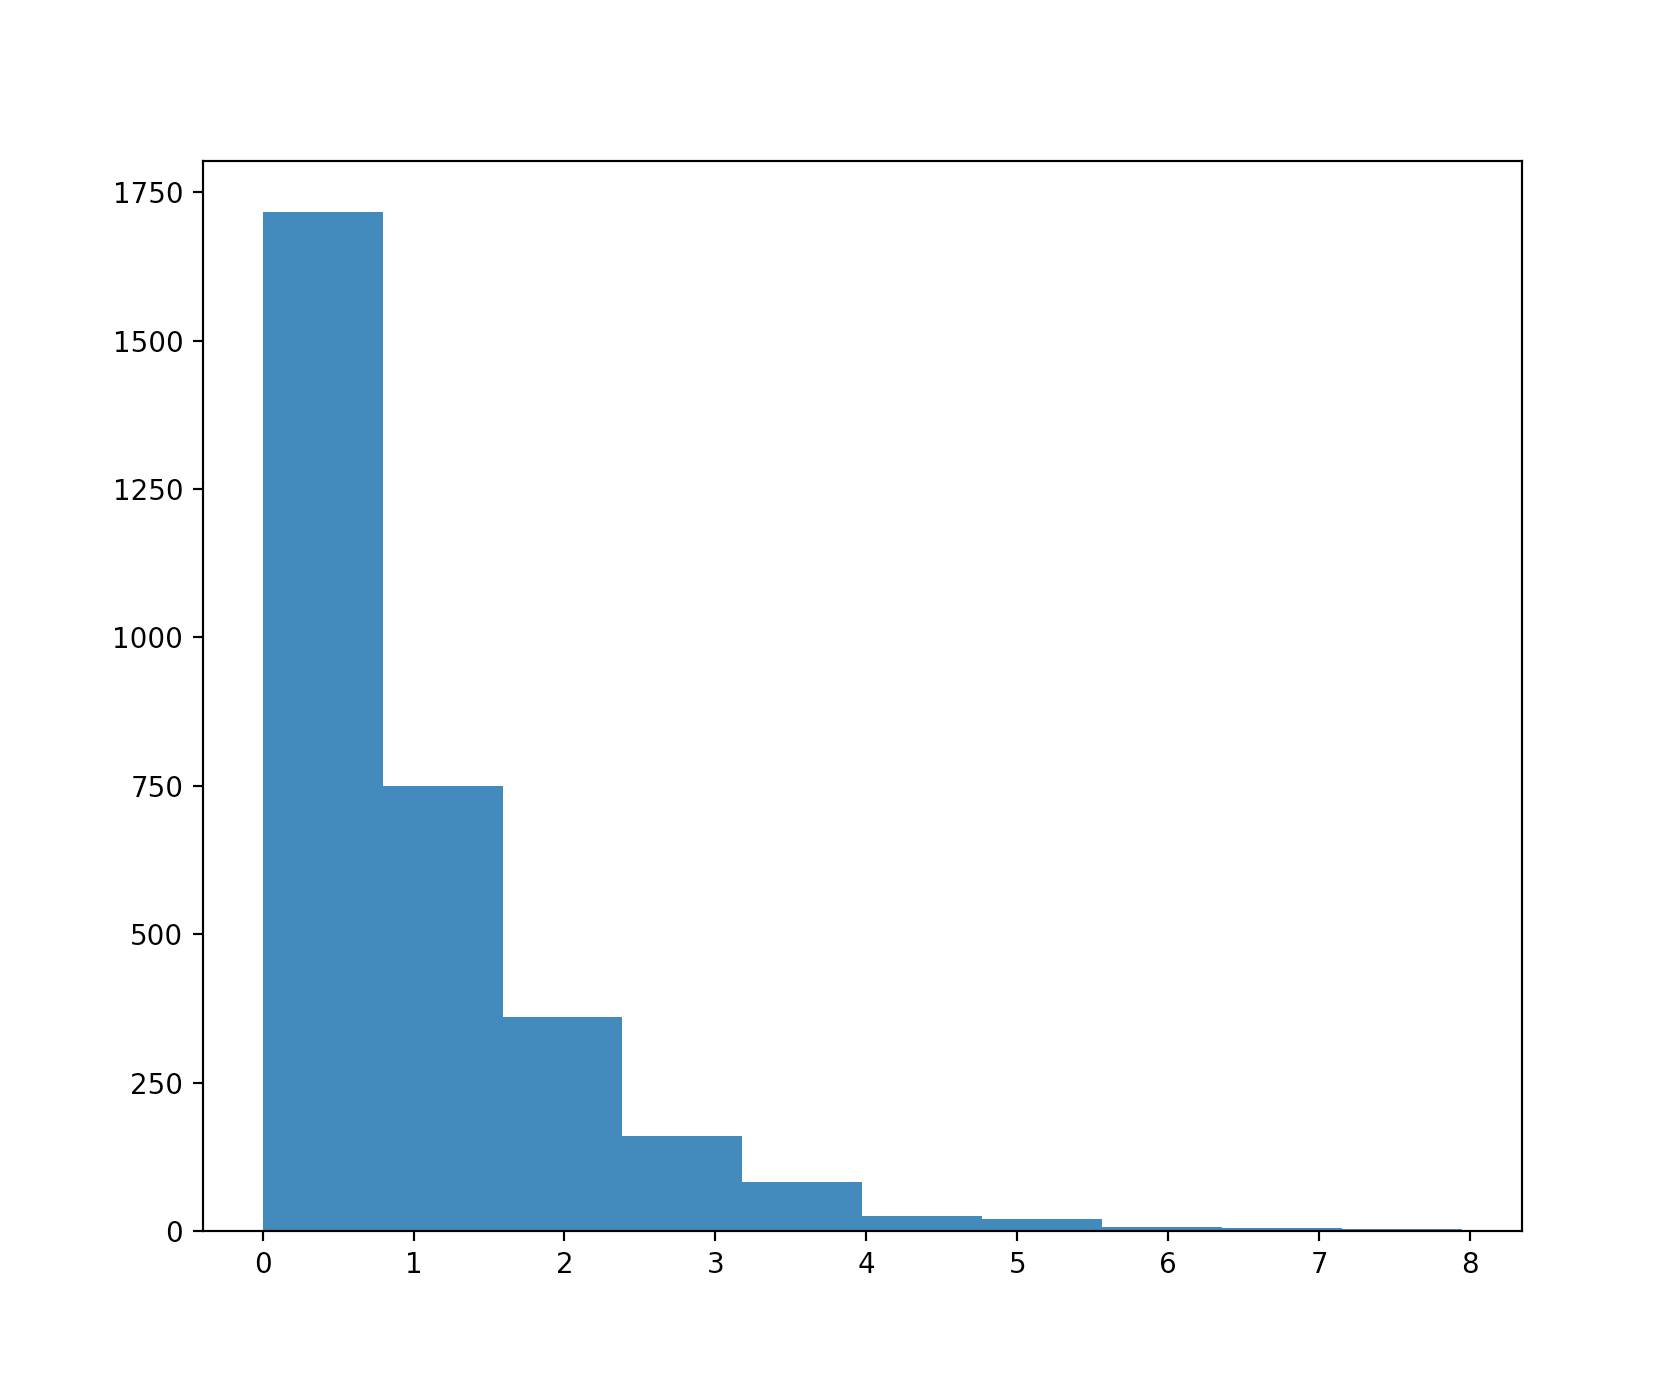
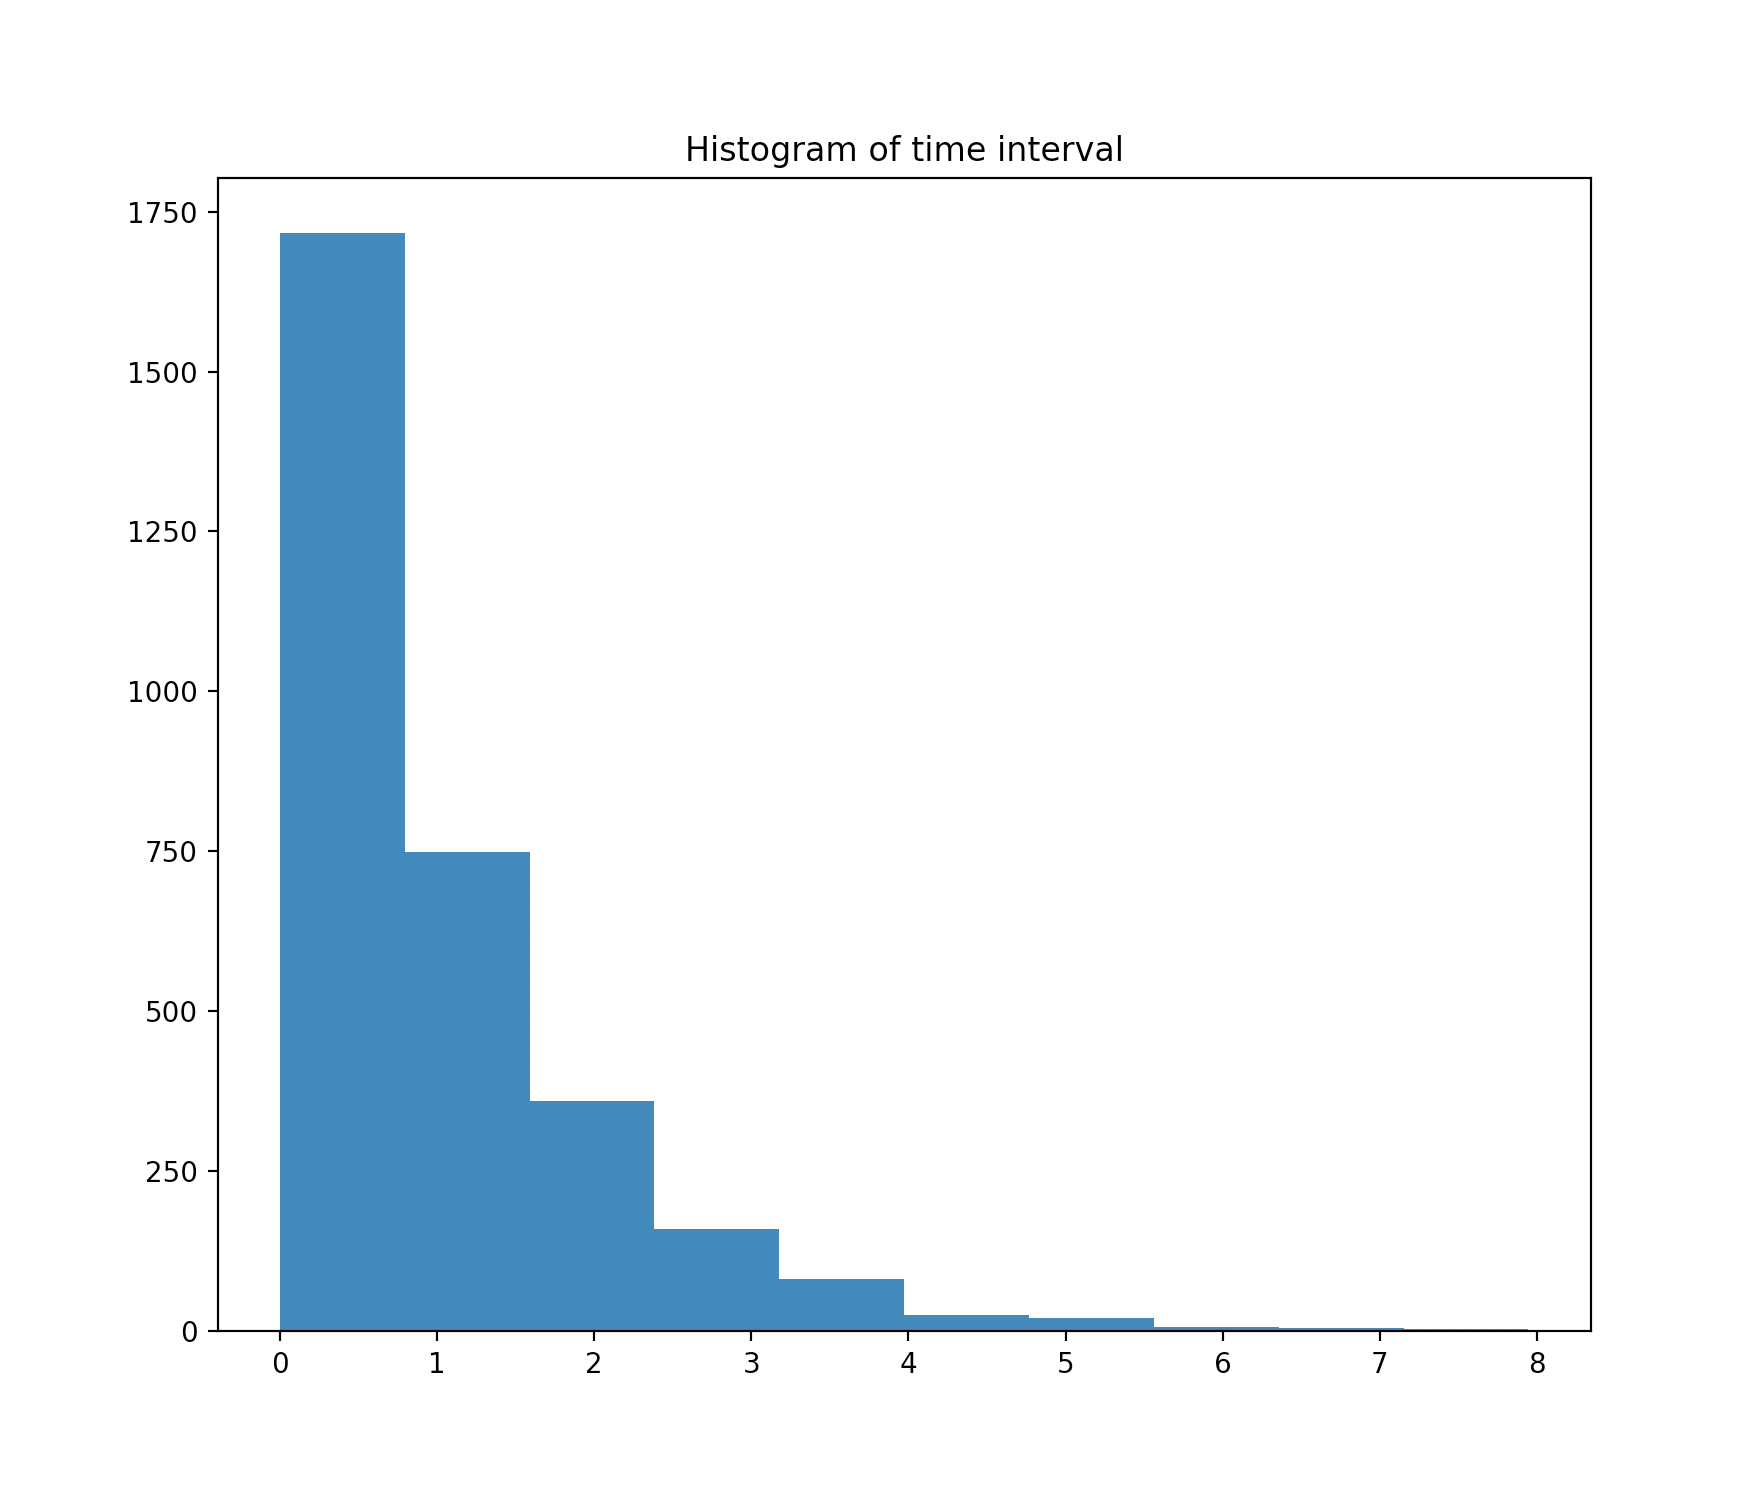
update hist img

diff --git a/analyze.py b/analyze.py
@@ -128,6 +128,7 @@ if __name__ == "__main__":
     plt.plot( dist_space, kde(dist_space) )
 
     plt.figure(7)
+    plt.title("Histogram of time interval")
     plt.hist(diff)
 
 
